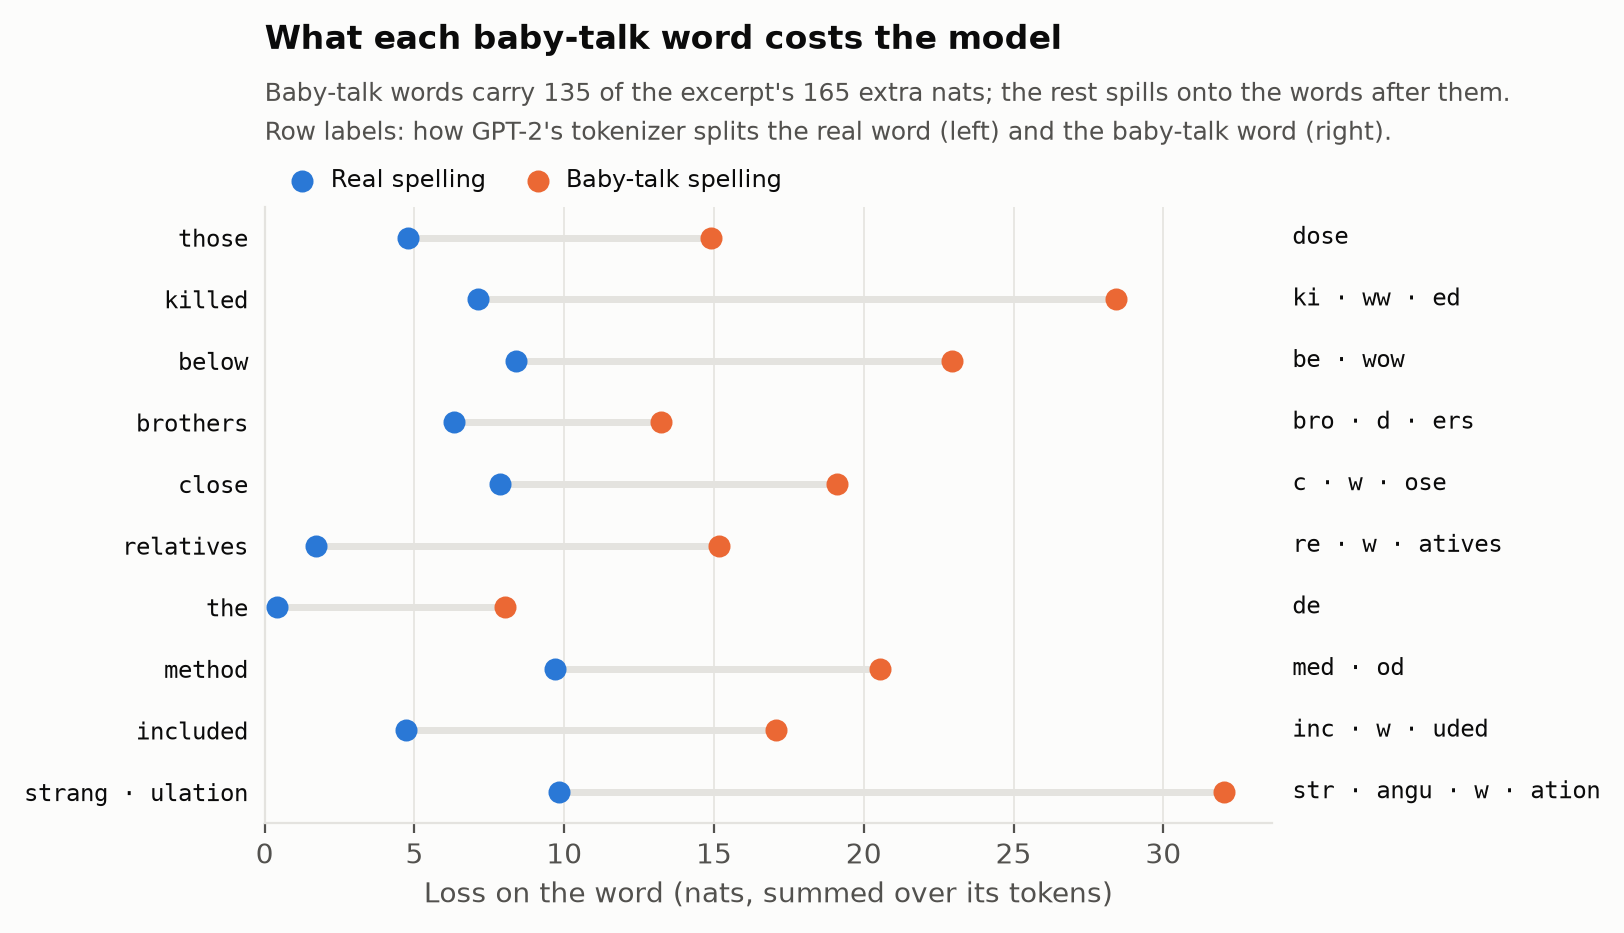
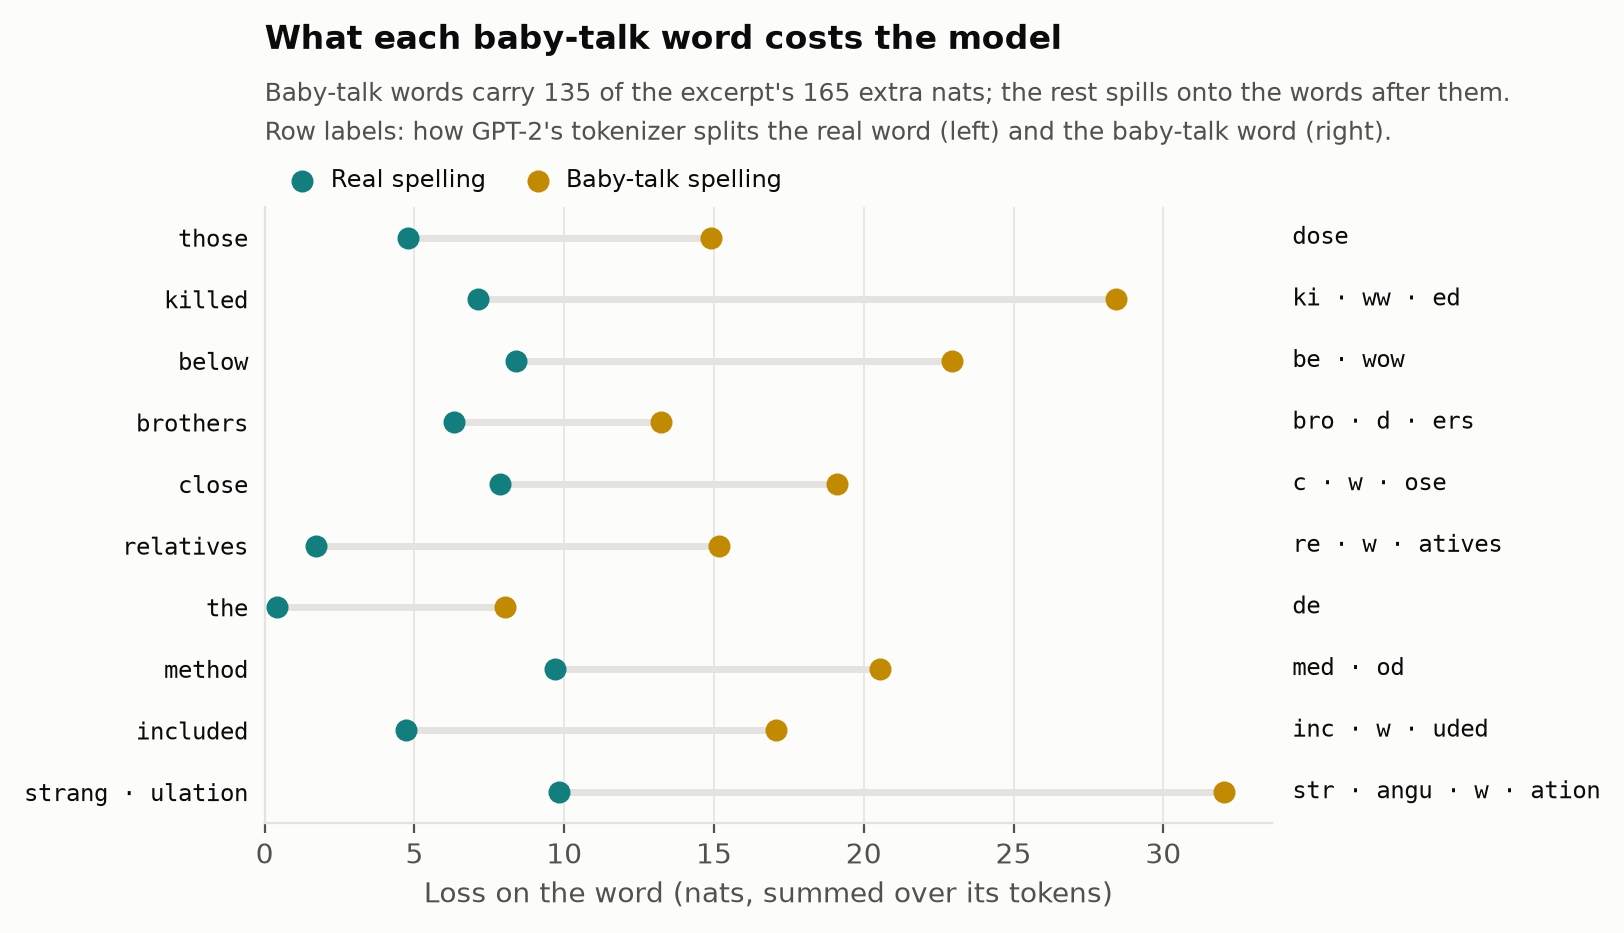
Figure palette: blue/orange reserved for Models A/B, separate colours for everything else
Grid behind the data; model colours for the step-320 runs; teal/gold for clean vs baby-talk spelling.

Claude-Session: https://claude.ai/code/session_011g3Lyr8UvzJaXaqXaADC6N

diff --git a/analysis/step320_spike/figures/token_losses.html b/analysis/step320_spike/figures/token_losses.html
@@ -1,21 +1,21 @@
 <p>Per-token loss (nats) of a trained 113M Gemma-style model on the opening of the step-320 page. Darker = higher; hover for values. Whole page: mean loss 5.06.</p>
 <h3>As it appeared in the batch</h3>
-<div id="circuits-vis-6b96e5da-e4d1" style="margin: 15px 0;"></div>
+<div id="circuits-vis-0ea4d1cb-2233" style="margin: 15px 0;"></div>
     <script crossorigin type="module">
     import { render, ColoredTokens } from "https://unpkg.com/circuitsvis@1.43.3/dist/cdn/esm.js";
     render(
-      "circuits-vis-6b96e5da-e4d1",
+      "circuits-vis-0ea4d1cb-2233",
       ColoredTokens,
-      {"tokens": ["Of", " dose", " ki", "ww", "ed", ",", " 18", "%", " were", " be", "wow", " de", " age", " of", " 18", " years", ",", " and", " 88", "%", " were", " married", ".", " Hus", "bands", ",", " bro", "d", "ers", " and", " c", "w", "ose", " re", "w", "atives", " were", " direct", " perpetrators", " of", " 79", "%", " of", " de", " honor", " crimes", " reported", " by", " mainstream", " media", ".", " The", " med", "od", " used", " for", " honor", " crime", " inc", "w", "uded", " firearms", " (", "most", " common", "),", " stabbing", ",", " axe", " and", " str", "angu", "w", "ation", ",", " uh", "-", "h", "ah", "-", "h", "ah", "-", "h", "ah", "."], "values": [7.531913757324219, 14.900825500488281, 15.904479026794434, 8.139918327331543, 4.390247344970703, 2.5977985858917236, 6.427685737609863, 2.8941197395324707, 3.5960068702697754, 10.3286714553833, 12.608753204345703, 8.037240982055664, 11.477470397949219, 3.0875418186187744, 4.3397393226623535, 2.040910005569458, 1.380382776260376, 1.675140619277954, 7.543440818786621, 0.07902304083108902, 0.3976244032382965, 5.6984405517578125, 1.5052857398986816, 10.02976131439209, 0.9850412011146545, 3.3490376472473145, 6.638965129852295, 4.747080326080322, 1.857142686843872, 1.138729453086853, 4.7251200675964355, 5.389812469482422, 9.002724647521973, 5.576489448547363, 2.953275203704834, 6.621035575866699, 0.9890340566635132, 10.293230056762695, 8.526114463806152, 0.40145260095596313, 10.80580997467041, 0.5192640423774719, 1.0414416790008545, 5.938776969909668, 13.860919952392578, 3.6366019248962402, 4.734956741333008, 1.7742787599563599, 9.454566955566406, 0.6627756953239441, 0.5760515928268433, 2.4847464561462402, 10.778435707092285, 9.760782241821289, 8.709770202636719, 3.9061498641967773, 7.433940887451172, 2.7839534282684326, 9.854602813720703, 4.559993267059326, 2.659825563430786, 8.19945240020752, 4.176909923553467, 6.210877418518066, 4.582825660705566, 2.4351541996002197, 10.3551664352417, 1.1016676425933838, 8.740788459777832, 2.115375518798828, 8.579950332641602, 10.600932121276855, 8.616294860839844, 4.235328674316406, 1.4001928567886353, 13.09135913848877, 0.9715602993965149, 0.27320319414138794, 0.35899317264556885, 0.2082652896642685, 0.13015596568584442, 0.021470380946993828, 0.4077666997909546, 0.17718350887298584, 0.019072944298386574, 3.2784061431884766], "minValue": 0, "maxValue": 12.0, "positiveColor": "#2a78d6"}
+      {"tokens": ["Of", " dose", " ki", "ww", "ed", ",", " 18", "%", " were", " be", "wow", " de", " age", " of", " 18", " years", ",", " and", " 88", "%", " were", " married", ".", " Hus", "bands", ",", " bro", "d", "ers", " and", " c", "w", "ose", " re", "w", "atives", " were", " direct", " perpetrators", " of", " 79", "%", " of", " de", " honor", " crimes", " reported", " by", " mainstream", " media", ".", " The", " med", "od", " used", " for", " honor", " crime", " inc", "w", "uded", " firearms", " (", "most", " common", "),", " stabbing", ",", " axe", " and", " str", "angu", "w", "ation", ",", " uh", "-", "h", "ah", "-", "h", "ah", "-", "h", "ah", "."], "values": [7.531913757324219, 14.900825500488281, 15.904479026794434, 8.139918327331543, 4.390247344970703, 2.5977985858917236, 6.427685737609863, 2.8941197395324707, 3.5960068702697754, 10.3286714553833, 12.608753204345703, 8.037240982055664, 11.477470397949219, 3.0875418186187744, 4.3397393226623535, 2.040910005569458, 1.380382776260376, 1.675140619277954, 7.543440818786621, 0.07902304083108902, 0.3976244032382965, 5.6984405517578125, 1.5052857398986816, 10.02976131439209, 0.9850412011146545, 3.3490376472473145, 6.638965129852295, 4.747080326080322, 1.857142686843872, 1.138729453086853, 4.7251200675964355, 5.389812469482422, 9.002724647521973, 5.576489448547363, 2.953275203704834, 6.621035575866699, 0.9890340566635132, 10.293230056762695, 8.526114463806152, 0.40145260095596313, 10.80580997467041, 0.5192640423774719, 1.0414416790008545, 5.938776969909668, 13.860919952392578, 3.6366019248962402, 4.734956741333008, 1.7742787599563599, 9.454566955566406, 0.6627756953239441, 0.5760515928268433, 2.4847464561462402, 10.778435707092285, 9.760782241821289, 8.709770202636719, 3.9061498641967773, 7.433940887451172, 2.7839534282684326, 9.854602813720703, 4.559993267059326, 2.659825563430786, 8.19945240020752, 4.176909923553467, 6.210877418518066, 4.582825660705566, 2.4351541996002197, 10.3551664352417, 1.1016676425933838, 8.740788459777832, 2.115375518798828, 8.579950332641602, 10.600932121276855, 8.616294860839844, 4.235328674316406, 1.4001928567886353, 13.09135913848877, 0.9715602993965149, 0.27320319414138794, 0.35899317264556885, 0.2082652896642685, 0.13015596568584442, 0.021470380946993828, 0.4077666997909546, 0.17718350887298584, 0.019072944298386574, 3.2784061431884766], "minValue": 0, "maxValue": 12.0, "positiveColor": "#c28a00"}
     )
     </script>
 <h3>Un-mangled twin</h3>
-<div id="circuits-vis-7e8e4c05-7cc2" style="margin: 15px 0;"></div>
+<div id="circuits-vis-d6a8d4ea-0e6e" style="margin: 15px 0;"></div>
     <script crossorigin type="module">
     import { render, ColoredTokens } from "https://unpkg.com/circuitsvis@1.43.3/dist/cdn/esm.js";
     render(
-      "circuits-vis-7e8e4c05-7cc2",
+      "circuits-vis-d6a8d4ea-0e6e",
       ColoredTokens,
-      {"tokens": ["Of", " those", " killed", ",", " 18", "%", " were", " below", " the", " age", " of", " 18", " years", ",", " and", " 88", "%", " were", " married", ".", " Hus", "bands", ",", " brothers", " and", " close", " relatives", " were", " direct", " perpetrators", " of", " 79", "%", " of", " the", " honor", " crimes", " reported", " by", " mainstream", " media", ".", " The", " method", " used", " for", " honor", " crime", " included", " firearms", " (", "most", " common", "),", " stabbing", ",", " axe", " and", " strang", "ulation", ",", " uh", "-", "h", "ah", "-", "h", "ah", "-", "h", "ah", "."], "values": [7.531913757324219, 4.781267166137695, 7.113274574279785, 1.8996853828430176, 5.076588153839111, 4.119156837463379, 1.6862385272979736, 8.399985313415527, 0.41522806882858276, 1.8924572467803955, 0.08772297203540802, 1.2225210666656494, 4.327752590179443, 1.324268102645874, 1.5418689250946045, 6.921745300292969, 0.09131576865911484, 0.5185360908508301, 3.861452102661133, 0.9134033918380737, 10.219268798828125, 0.39000025391578674, 2.912600040435791, 6.310586452484131, 0.5982926487922668, 7.868138790130615, 1.727649450302124, 1.1261811256408691, 10.017108917236328, 6.225555896759033, 0.14732861518859863, 12.508035659790039, 0.9569947719573975, 0.5776135325431824, 1.9270515441894531, 14.485801696777344, 3.0939226150512695, 3.803572416305542, 1.5203171968460083, 10.078489303588867, 0.8041002750396729, 0.5388995409011841, 2.583716869354248, 9.67784309387207, 1.655599594116211, 3.144526243209839, 9.090829849243164, 3.33292293548584, 4.726555824279785, 6.705506324768066, 3.8484315872192383, 5.681045055389404, 2.9171929359436035, 1.6248177289962769, 9.104957580566406, 0.6401314735412598, 9.514305114746094, 2.1115801334381104, 9.657712936401367, 0.15511342883110046, 0.5150412321090698, 14.100776672363281, 0.5231437683105469, 0.21569591760635376, 0.43643248081207275, 0.10343921929597855, 0.08725768327713013, 0.020454540848731995, 0.37007278203964233, 0.1290431171655655, 0.01625944674015045, 3.771481990814209], "minValue": 0, "maxValue": 12.0, "positiveColor": "#2a78d6"}
+      {"tokens": ["Of", " those", " killed", ",", " 18", "%", " were", " below", " the", " age", " of", " 18", " years", ",", " and", " 88", "%", " were", " married", ".", " Hus", "bands", ",", " brothers", " and", " close", " relatives", " were", " direct", " perpetrators", " of", " 79", "%", " of", " the", " honor", " crimes", " reported", " by", " mainstream", " media", ".", " The", " method", " used", " for", " honor", " crime", " included", " firearms", " (", "most", " common", "),", " stabbing", ",", " axe", " and", " strang", "ulation", ",", " uh", "-", "h", "ah", "-", "h", "ah", "-", "h", "ah", "."], "values": [7.531913757324219, 4.781267166137695, 7.113274574279785, 1.8996853828430176, 5.076588153839111, 4.119156837463379, 1.6862385272979736, 8.399985313415527, 0.41522806882858276, 1.8924572467803955, 0.08772297203540802, 1.2225210666656494, 4.327752590179443, 1.324268102645874, 1.5418689250946045, 6.921745300292969, 0.09131576865911484, 0.5185360908508301, 3.861452102661133, 0.9134033918380737, 10.219268798828125, 0.39000025391578674, 2.912600040435791, 6.310586452484131, 0.5982926487922668, 7.868138790130615, 1.727649450302124, 1.1261811256408691, 10.017108917236328, 6.225555896759033, 0.14732861518859863, 12.508035659790039, 0.9569947719573975, 0.5776135325431824, 1.9270515441894531, 14.485801696777344, 3.0939226150512695, 3.803572416305542, 1.5203171968460083, 10.078489303588867, 0.8041002750396729, 0.5388995409011841, 2.583716869354248, 9.67784309387207, 1.655599594116211, 3.144526243209839, 9.090829849243164, 3.33292293548584, 4.726555824279785, 6.705506324768066, 3.8484315872192383, 5.681045055389404, 2.9171929359436035, 1.6248177289962769, 9.104957580566406, 0.6401314735412598, 9.514305114746094, 2.1115801334381104, 9.657712936401367, 0.15511342883110046, 0.5150412321090698, 14.100776672363281, 0.5231437683105469, 0.21569591760635376, 0.43643248081207275, 0.10343921929597855, 0.08725768327713013, 0.020454540848731995, 0.37007278203964233, 0.1290431171655655, 0.01625944674015045, 3.771481990814209], "minValue": 0, "maxValue": 12.0, "positiveColor": "#c28a00"}
     )
     </script>

diff --git a/analysis/common/style.py b/analysis/common/style.py
@@ -13,6 +13,19 @@ GRID = "#e4e3df"
 # 4th sit below 3:1 contrast on SURFACE, so charts using them must carry direct labels.
 SERIES = ["#2a78d6", "#eb6834", "#1baf7a", "#eda100"]
 
+# Model identity: the same model gets the same colour in every figure, and blue and orange mean nothing else.
+MODEL_A, MODEL_B, GPT2 = SERIES[0], SERIES[1], SERIES[2]
+MODEL_B_MIX = "#c2417a"  # Model B's architecture on the 50:50 data mix (rose)
+MODEL_A_DARK = "#104281"  # a second Model A run (e.g. the 9.8B-token one beside the 1.5B), same hue, darker
+
+# Everything that isn't a model gets colours of its own.
+COMPONENTS = {"attention projections": "#5b3fa8", "attention scores": "#b3a1e6",  # attention: one purple family
+              "MLP": "#127e7e", "output layer": "#857e72"}  # teal, dark warm grey (distinct from the background)
+ACCENT = "#127e7e"  # a single highlighted series that isn't a model (teal)
+OTHER = ["#5b3fa8", "#127e7e", "#c28a00"]  # non-model categories in fixed order: purple, teal, gold
+GOOD, BAD = "#127e7e", "#c28a00"  # better / worse (teal, gold)
+SEQUENTIAL_CMAP = "Purples"  # heatmaps of non-model quantities
+
 # Sequential, one hue light -> dark, for magnitudes such as loss.
 BLUE_RAMP = ["#cde2fb", "#b7d3f6", "#9ec5f4", "#86b6ef", "#6da7ec", "#5598e7", "#3987e5",
              "#2a78d6", "#256abf", "#1c5cab", "#184f95", "#104281", "#0d366b"]
@@ -24,7 +37,7 @@ def apply():
         "axes.edgecolor": GRID, "axes.labelcolor": INK_SECONDARY, "axes.titlecolor": INK,
         "xtick.color": INK_SECONDARY, "ytick.color": INK_SECONDARY, "text.color": INK,
         "axes.spines.top": False, "axes.spines.right": False,
-        "axes.grid": True, "grid.color": GRID, "grid.linewidth": 0.6,
+        "axes.grid": True, "grid.color": GRID, "grid.linewidth": 0.6, "axes.axisbelow": True,  # grid behind the data
         "font.size": 10, "axes.titlesize": 12, "axes.titleweight": "bold", "axes.titlelocation": "left",
         "lines.linewidth": 1.6, "legend.frameon": False,
     })

diff --git a/analysis/step320_spike/01_loss_spike.py b/analysis/step320_spike/01_loss_spike.py
@@ -27,6 +27,7 @@ RUNS = [
     ("113M Gemma-style, 1.5B-token run", run_ids.LADDER_A4),
     ("124M GPT-2, 9.8B-token run", run_ids.HEADLINE_A),
 ]
+COLORS = [style.MODEL_A, style.MODEL_B, style.MODEL_A_DARK]  # in RUNS order: the model's colour, darker for its long run
 CONFIG_KEYS = ["batch_size", "gradient_accumulation_steps", "block_size", "warmup_iters", "dataset", "out_dir"]
 HALF_WINDOW = 40e6  # display choice: tokens shown either side of the spike, enough flat curve to frame it
 
@@ -87,13 +88,13 @@ def main():
             transform=ax.get_xaxis_transform(), va="top", fontsize=9, color=style.INK_SECONDARY)
 
     ends = []
-    for (label, path), color in zip(RUNS, style.SERIES):
+    for (label, path), color in zip(RUNS, COLORS):
         pts = [(t / 1e6, loss) for _, t, loss in history[path] if window[0] <= t <= window[1]]
         x, y = zip(*pts)
         ax.plot(x, y, color=color, label=label, zorder=3)
         ends.append((x[-1], y[-1]))  # each line's last point anchors its direct label
     label_ys = style.spread_labels([e[1] for e in ends], min_gap=0.12)  # min_gap in loss units
-    for (label, _), (x_end, _), y_lab, color in zip(RUNS, ends, label_ys, style.SERIES):
+    for (label, _), (x_end, _), y_lab, color in zip(RUNS, ends, label_ys, COLORS):
         ax.plot([x_end + 1.2], [y_lab], marker="o", markersize=5, color=color, clip_on=False)
         ax.text(x_end + 2.6, y_lab, label, va="center", fontsize=9, color=style.INK, clip_on=False)
 

diff --git a/analysis/step320_spike/03_token_losses.py b/analysis/step320_spike/03_token_losses.py
@@ -88,7 +88,7 @@ def main():
     sections = []
     for name, title in [("mangled", "As it appeared in the batch"), ("clean", "Un-mangled twin")]:
         view = models.colored_tokens_html(passages[name][0], passages[name][1], min_value=0, max_value=LOSS_MAX,
-                                          positive_color=style.SERIES[0])
+                                          positive_color=style.BAD)
         sections.append(f"<h3>{title}</h3>\n{view}")
     with open(HTML, "w") as f:
         f.write(f"<p>Per-token loss (nats) of a trained 113M Gemma-style model on the opening of the step-320 "
@@ -99,7 +99,7 @@ def main():
     rows = list({(c[0], m[0]): (c, m) for c, m in reversed(changed)}.values())[::-1]  # dedupe, keep first occurrence
     style.apply()
     fig, ax = plt.subplots(figsize=(6.5, 0.34 * len(rows) + 0.6))
-    clean_color, mangled_color = style.SERIES[0], style.SERIES[1]
+    clean_color, mangled_color = style.GOOD, style.BAD
     for row, (c, m) in enumerate(rows):
         ax.plot([c[1], m[1]], [row, row], color=style.GRID, linewidth=2.5, zorder=1, solid_capstyle="round")
         ax.scatter([c[1]], [row], s=48, color=clean_color, zorder=3, label="Real spelling" if row == 0 else None)
